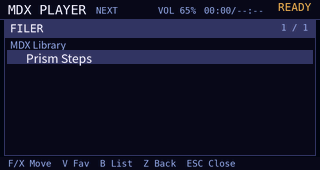
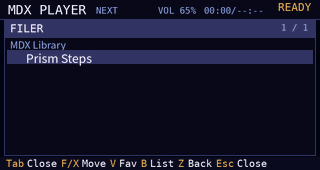
Make the on-screen key hints easier to read (#6)

Changed region(s): [[0.0, 0.9118, 0.8438, 1.0]]

diff --git a/mdx-player.py b/mdx-player.py
@@ -751,16 +751,37 @@ def paint_exit_dialog(image, progress):
         draw.rectangle((60, 100, 59 + 2 * progress, 105), fill=LILAC)
 
 
+@lru_cache(maxsize=2)
+def _key_hint_layout(filer_active):
+    if filer_active:
+        groups = (("Tab", "Close"), ("F/X", "Move"), ("V", "Fav"), ("B", "List"),
+                  ("Z", "Back"), ("Esc", "Close"))
+    else:
+        groups = (("Tab", "Filer"), ("Q", "Play"), ("W/E", "Skip"), ("A/S/D", "Vol"),
+                  ("L", "Loop"), ("M", "Mix"), ("Esc", "Hold"))
+    face = font(10, mono=True)
+    hints = []
+    x = 6
+    for key, description in groups:
+        hints.append((round(x), key, AMBER))
+        x += face.getlength(key) / TEXT_SCALE + 3
+        hints.append((round(x), description, TEXT))
+        x += face.getlength(description) / TEXT_SCALE + 4
+    return tuple(hints)
+
+
+def paint_key_hints(image, filer_active):
+    ImageDraw.Draw(image).rectangle((0, 157, 319, 169), fill=PANEL)
+    for x, text, color in _key_hint_layout(filer_active):
+        paint_text(image, (x, 167), text, 10, color, mono=True, anchor="ls")
+
+
 def render(filer, playback, mode, volume, offset, exit_progress=None):
     image = Image.new("RGB", (320, 170), BG)
     paint_player(image, playback, mode, volume, playback.track in filer.favorites, offset)
     if filer.active:
         paint_filer(image, filer)
-    draw = ImageDraw.Draw(image)
-    draw.rectangle((0, 157, 319, 169), fill=PANEL)
-    hint = ("F/X Move  V Fav  B List  Z Back  ESC Close" if filer.active else
-            "Q Play W/E Skip A/S/D Vol Tab L Mode M Audio Hold Esc")
-    paint_text(image, (8, 158), hint, 9, LILAC, mono=True)
+    paint_key_hints(image, filer.active)
     if exit_progress is not None:
         paint_exit_dialog(image, exit_progress)
     return image

diff --git a/README.md b/README.md
@@ -10,7 +10,7 @@ PDX sample mixing, and software YM2151 synthesis at 44.1 kHz stereo.
 
 1. Download the Arm64 Debian package from the release and copy it to your
    CardputerZero.
-2. Run `sudo apt install ./cardputer-mdx_0.2.3-1_arm64.deb` on the device.
+2. Run `sudo apt install ./cardputer-mdx_0.2.4-1_arm64.deb` on the device.
 3. Put your MDX files in `~/Music/MDX Library`. You can organize them in
    subfolders. Keep each PDX sample bank in the same folder as the tracks
    that use it.
@@ -51,7 +51,7 @@ sudo apt install build-essential binutils dpkg
 sh ./build-deb.sh
 ```
 
-The package is written to `dist/cardputer-mdx_0.2.3-1_arm64.deb`. Pass a
+The package is written to `dist/cardputer-mdx_0.2.4-1_arm64.deb`. Pass a
 directory as the first argument to change the output location. Set
 `SOURCE_DATE_EPOCH` to the release commit timestamp to fix package timestamps.
 The build uses only the source in this tree and the installed system tools.
